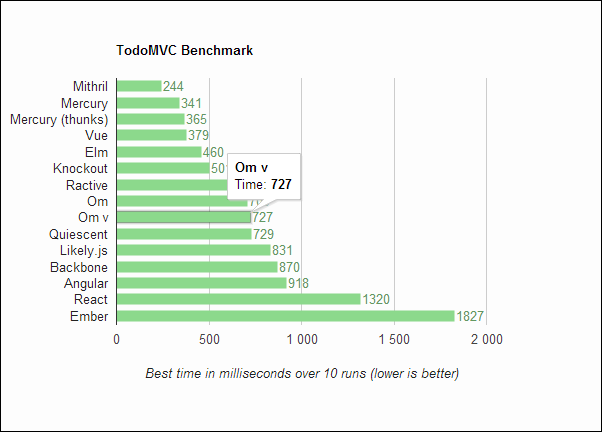
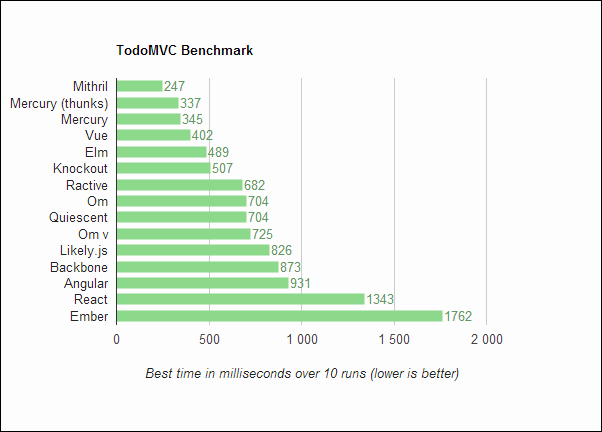
Fix Win/Chrome capture. Single out Elm on Win/IE9.

diff --git a/README.md b/README.md
@@ -9,9 +9,9 @@ Performance benchmarks for various TodoMVC implementations
 
 ### Overall:
 
-Mercury, Vue and Mithril are king. Elm is a close fourth. 
+Mercury, Vue and Mithril are king. Elm is a close fourth, except on IE9 where it is very slow. 
 
-Ember is the slowest; Angular, React and Backbone are trailing too.
+Ember is the slowest overall; Angular, React and Backbone are trailing too.
 
 ### Chrome 35, OS X
 ![Chrome](Chrome.png)
